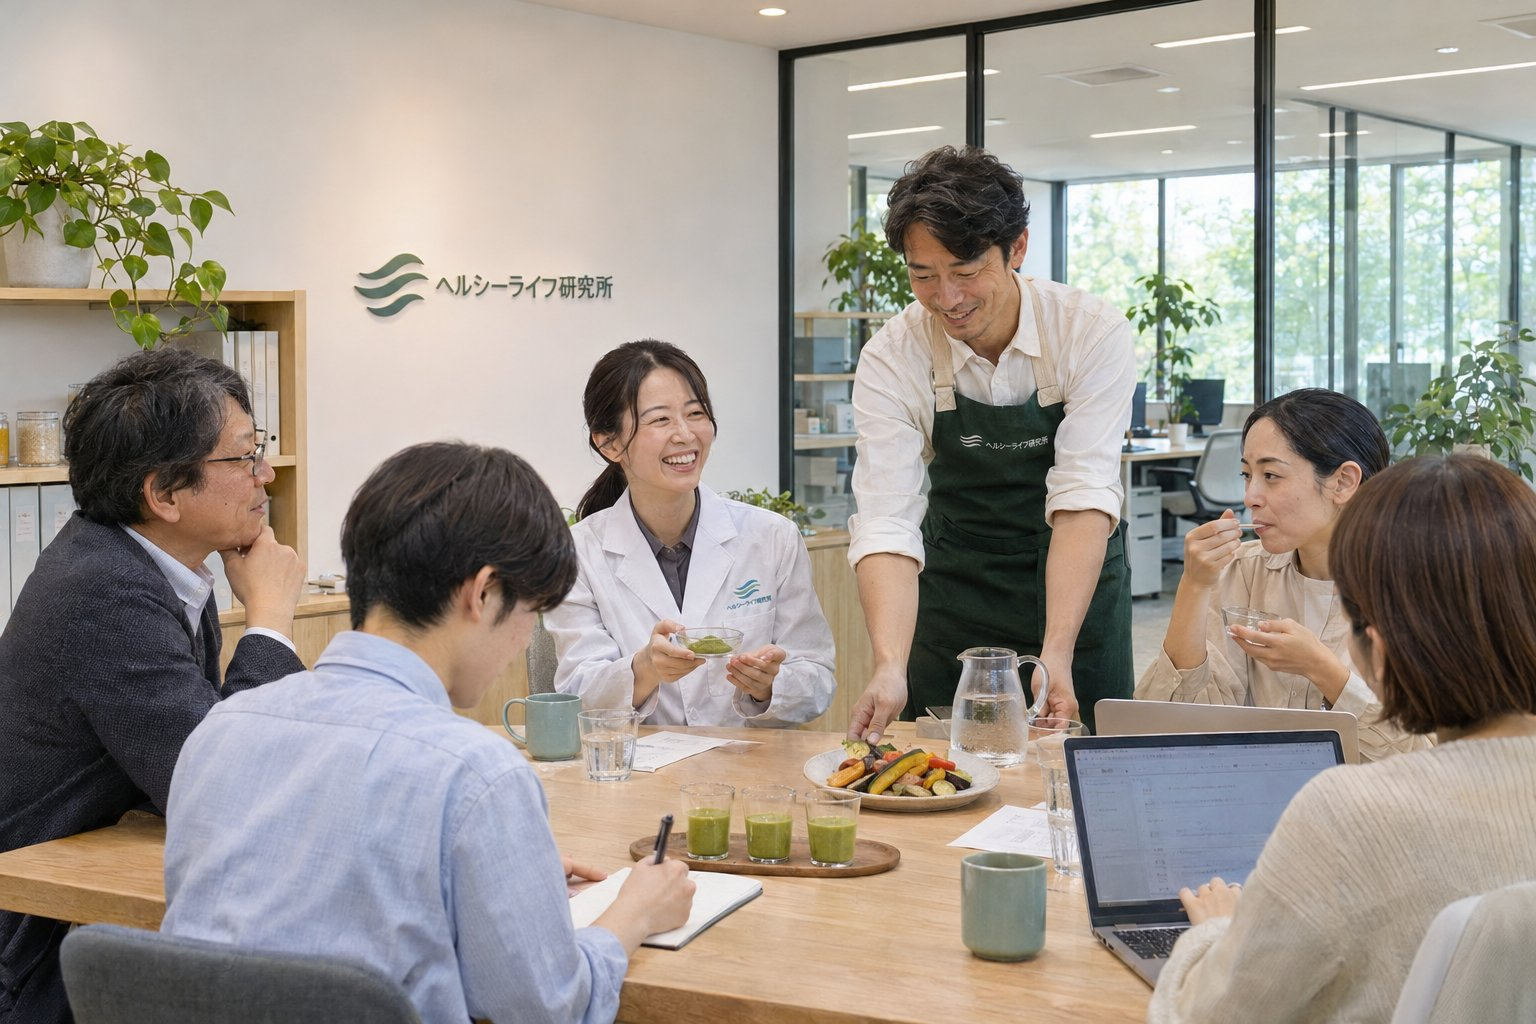
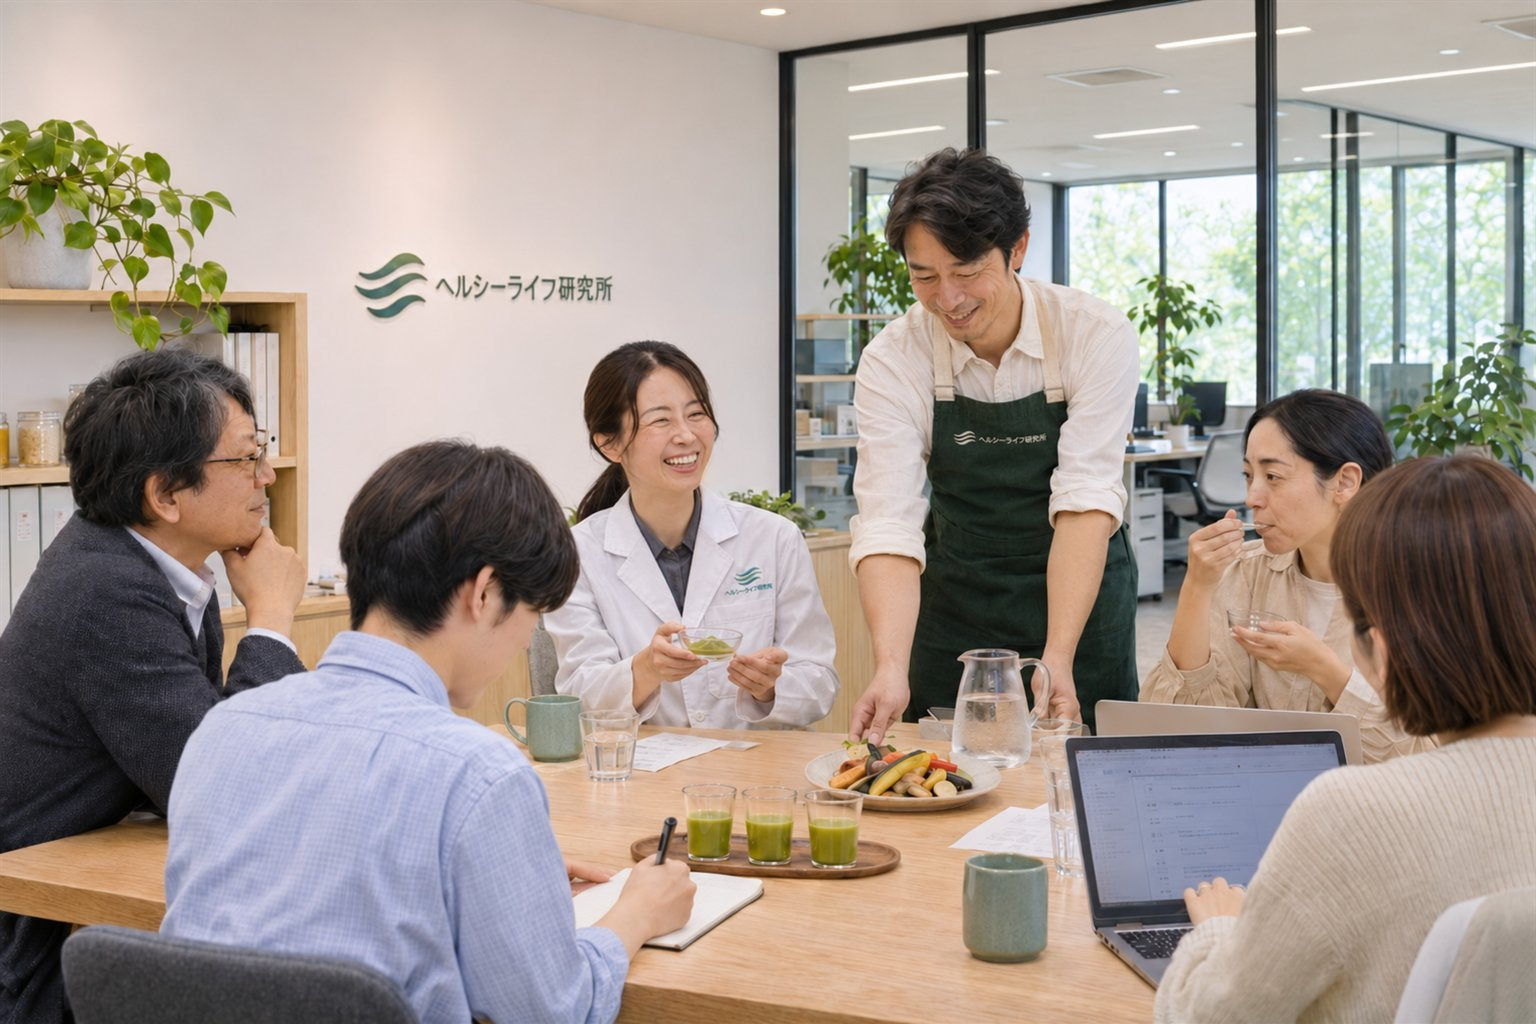
Add phone number and switch photos to v8-mark
- TEL 03-5050-5316 replaces the placeholder in header contact, footer,
  company overview and privacy text (all pages rebuilt)
- Clothing logos re-stitched to look sewn into the fabric (v8-mark)

diff --git a/contact/index.html b/contact/index.html
@@ -70,7 +70,7 @@
   <div class="wrap form-wrap">
     <aside class="form-aside rv">
       <p style="color:var(--ink-2)">当社サービスへご興味をお持ちいただき、誠にありがとうございます。商品・サービスに関するご質問、お取引のご相談、商品開発・輸出入のご相談、ECサイト構築・運営支援のご相談、出版企画のご提案、求人へのご応募など、下記フォームよりお気軽にご連絡ください。内容を確認のうえ、担当者より折り返しご連絡いたします。</p>
-      <div class="tel-card"><span class="k">Tel</span><b>【電話番号】</b><span>受付時間：9:00-18:00</span></div>
+      <div class="tel-card"><span class="k">Tel</span><b>03-5050-5316</b><span>受付時間：9:00-18:00</span></div>
       <div class="spec" style="aspect-ratio:4/3"><div class="ph"><img src="../assets/img/top-office.jpg" alt="ロゴのサインがある受付と、奥で打ち合わせをするスタッフ" loading="lazy" style="object-position:30% 50%"></div><span class="crop" aria-hidden="true"></span><span class="tag">Fig. 06 / Office</span></div>
     </aside>
 
@@ -167,7 +167,7 @@
   <section><h3 class="pp-h"><span class="n">06</span>法令、規範の遵守と見直し</h3><p>当社は、保有する個人情報に関して適用される日本の法令、その他規範を遵守するとともに、本ポリシーの内容を適宜見直し、その改善に努めます。</p></section>
   <section><h3 class="pp-h"><span class="n">07</span>Cookie（クッキー）について</h3><p>当社ウェブサイトでは、サービスの利便性向上およびサイトの利用状況の把握のため、Cookieおよびアクセス解析ツールを使用することがあります。これらにより収集される情報は匿名のものであり、個人を特定するものではありません。お客様は、ブラウザの設定によりCookieの受け入れを拒否することができますが、その場合、当サイトの一部の機能がご利用いただけないことがあります。</p></section>
   <section><h3 class="pp-h"><span class="n">08</span>お問い合せ</h3><p>当社の個人情報の取り扱いに関するお問い合せは、下記までご連絡ください。</p>
-    <address><b>有限会社ヘルシーライフ研究所</b><br>〒106-0045 東京都港区麻布十番二丁目9番5号 遠上ビル301<br>TEL：【電話番号】（受付時間：9:00-18:00）</address></section>
+    <address><b>有限会社ヘルシーライフ研究所</b><br>〒106-0045 東京都港区麻布十番二丁目9番5号 遠上ビル301<br>TEL：03-5050-5316（受付時間：9:00-18:00）</address></section>
   <p class="enact">制定日：2006年6月1日</p>
 </div>
 
@@ -182,7 +182,7 @@
     <div class="foot">
       <div>
         <a class="brand" href="../index.html"><img class="logo" src="../assets/img/logo.png" alt="" width="44" height="44"><span class="nm"><small>Healthy Life Laboratory</small>有限会社ヘルシーライフ研究所</span></a>
-        <address>〒106-0045<br>東京都港区麻布十番二丁目9番5号 遠上ビル301<br><span class="mono">TEL</span>【電話番号】（受付 9:00-18:00）</address>
+        <address>〒106-0045<br>東京都港区麻布十番二丁目9番5号 遠上ビル301<br><span class="mono">TEL</span>03-5050-5316（受付 9:00-18:00）</address>
       </div>
       <nav class="foot-nav" aria-label="フッターナビ">
         <div>

diff --git a/privacy/index.html b/privacy/index.html
@@ -79,7 +79,7 @@
   <section><h3 class="pp-h"><span class="n">06</span>法令、規範の遵守と見直し</h3><p>当社は、保有する個人情報に関して適用される日本の法令、その他規範を遵守するとともに、本ポリシーの内容を適宜見直し、その改善に努めます。</p></section>
   <section><h3 class="pp-h"><span class="n">07</span>Cookie（クッキー）について</h3><p>当社ウェブサイトでは、サービスの利便性向上およびサイトの利用状況の把握のため、Cookieおよびアクセス解析ツールを使用することがあります。これらにより収集される情報は匿名のものであり、個人を特定するものではありません。お客様は、ブラウザの設定によりCookieの受け入れを拒否することができますが、その場合、当サイトの一部の機能がご利用いただけないことがあります。</p></section>
   <section><h3 class="pp-h"><span class="n">08</span>お問い合せ</h3><p>当社の個人情報の取り扱いに関するお問い合せは、下記までご連絡ください。</p>
-    <address><b>有限会社ヘルシーライフ研究所</b><br>〒106-0045 東京都港区麻布十番二丁目9番5号 遠上ビル301<br>TEL：【電話番号】（受付時間：9:00-18:00）</address></section>
+    <address><b>有限会社ヘルシーライフ研究所</b><br>〒106-0045 東京都港区麻布十番二丁目9番5号 遠上ビル301<br>TEL：03-5050-5316（受付時間：9:00-18:00）</address></section>
   <p class="enact">制定日：2006年6月1日</p>
 </div>
 
@@ -92,7 +92,7 @@
     <div class="foot">
       <div>
         <a class="brand" href="../index.html"><img class="logo" src="../assets/img/logo.png" alt="" width="44" height="44"><span class="nm"><small>Healthy Life Laboratory</small>有限会社ヘルシーライフ研究所</span></a>
-        <address>〒106-0045<br>東京都港区麻布十番二丁目9番5号 遠上ビル301<br><span class="mono">TEL</span>【電話番号】（受付 9:00-18:00）</address>
+        <address>〒106-0045<br>東京都港区麻布十番二丁目9番5号 遠上ビル301<br><span class="mono">TEL</span>03-5050-5316（受付 9:00-18:00）</address>
       </div>
       <nav class="foot-nav" aria-label="フッターナビ">
         <div>

diff --git a/contact/thanks.html b/contact/thanks.html
@@ -71,7 +71,7 @@
       <span class="seal" aria-hidden="true"><svg viewBox="0 0 48 48" fill="none" stroke="currentColor" stroke-width="2" stroke-linecap="round" stroke-linejoin="round"><path d="M18 6h12M20 6v12L9 37a3 3 0 0 0 2.6 4.5h24.8A3 3 0 0 0 39 37L28 18V6"/><path d="M17 31l5 5 9-9"/></svg></span>
       <span class="lbl">Thank You</span>
       <h1>お問い合わせありがとうございました。</h1>
-      <p>送信が完了しました。内容を確認のうえ、担当者より折り返しご連絡いたします。<br>数日経っても連絡がない場合は、お手数ですがお電話（【電話番号】受付 9:00-18:00）にてお問い合わせください。</p>
+      <p>送信が完了しました。内容を確認のうえ、担当者より折り返しご連絡いたします。<br>数日経っても連絡がない場合は、お手数ですがお電話（03-5050-5316受付 9:00-18:00）にてお問い合わせください。</p>
       <a class="btn" href="../index.html">トップページへ戻る<span class="arr" aria-hidden="true">→</span></a>
     </div>
   </div>
@@ -83,7 +83,7 @@
     <div class="foot">
       <div>
         <a class="brand" href="../index.html"><img class="logo" src="../assets/img/logo.png" alt="" width="44" height="44"><span class="nm"><small>Healthy Life Laboratory</small>有限会社ヘルシーライフ研究所</span></a>
-        <address>〒106-0045<br>東京都港区麻布十番二丁目9番5号 遠上ビル301<br><span class="mono">TEL</span>【電話番号】（受付 9:00-18:00）</address>
+        <address>〒106-0045<br>東京都港区麻布十番二丁目9番5号 遠上ビル301<br><span class="mono">TEL</span>03-5050-5316（受付 9:00-18:00）</address>
       </div>
       <nav class="foot-nav" aria-label="フッターナビ">
         <div>

diff --git a/company/overview.html b/company/overview.html
@@ -75,7 +75,7 @@
         <tr><th scope="row"><span class="c">Name</span>会社名</th><td>有限会社ヘルシーライフ研究所</td></tr>
         <tr><th scope="row"><span class="c">Address</span>本社所在地</th><td>〒106-0045<br>東京都港区麻布十番二丁目9番5号 遠上ビル301</td></tr>
         <tr><th scope="row"><span class="c">Representative</span>代表者名</th><td>代表 川島 透真</td></tr>
-        <tr><th scope="row"><span class="c">Tel</span>TEL</th><td>【電話番号】</td></tr>
+        <tr><th scope="row"><span class="c">Tel</span>TEL</th><td>03-5050-5316</td></tr>
         <tr><th scope="row"><span class="c">Hours</span>営業時間</th><td>9:00-18:00</td></tr>
         <tr><th scope="row"><span class="c">Established</span>設立年月日</th><td>2006年（平成18年）4月28日</td></tr>
         <tr><th scope="row"><span class="c">Capital</span>資本金</th><td>300万円</td></tr>
@@ -130,7 +130,7 @@
     <div class="foot">
       <div>
         <a class="brand" href="../index.html"><img class="logo" src="../assets/img/logo.png" alt="" width="44" height="44"><span class="nm"><small>Healthy Life Laboratory</small>有限会社ヘルシーライフ研究所</span></a>
-        <address>〒106-0045<br>東京都港区麻布十番二丁目9番5号 遠上ビル301<br><span class="mono">TEL</span>【電話番号】（受付 9:00-18:00）</address>
+        <address>〒106-0045<br>東京都港区麻布十番二丁目9番5号 遠上ビル301<br><span class="mono">TEL</span>03-5050-5316（受付 9:00-18:00）</address>
       </div>
       <nav class="foot-nav" aria-label="フッターナビ">
         <div>

diff --git a/_src/partials/privacy-body.html b/_src/partials/privacy-body.html
@@ -10,6 +10,6 @@
   <section><h3 class="pp-h"><span class="n">06</span>法令、規範の遵守と見直し</h3><p>当社は、保有する個人情報に関して適用される日本の法令、その他規範を遵守するとともに、本ポリシーの内容を適宜見直し、その改善に努めます。</p></section>
   <section><h3 class="pp-h"><span class="n">07</span>Cookie（クッキー）について</h3><p>当社ウェブサイトでは、サービスの利便性向上およびサイトの利用状況の把握のため、Cookieおよびアクセス解析ツールを使用することがあります。これらにより収集される情報は匿名のものであり、個人を特定するものではありません。お客様は、ブラウザの設定によりCookieの受け入れを拒否することができますが、その場合、当サイトの一部の機能がご利用いただけないことがあります。</p></section>
   <section><h3 class="pp-h"><span class="n">08</span>お問い合せ</h3><p>当社の個人情報の取り扱いに関するお問い合せは、下記までご連絡ください。</p>
-    <address><b>有限会社ヘルシーライフ研究所</b><br>〒106-0045 東京都港区麻布十番二丁目9番5号 遠上ビル301<br>TEL：【電話番号】（受付時間：9:00-18:00）</address></section>
+    <address><b>有限会社ヘルシーライフ研究所</b><br>〒106-0045 東京都港区麻布十番二丁目9番5号 遠上ビル301<br>TEL：03-5050-5316（受付時間：9:00-18:00）</address></section>
   <p class="enact">制定日：2006年6月1日</p>
 </div>

diff --git a/recruit/index.html b/recruit/index.html
@@ -176,7 +176,7 @@
     <p>ご応募・ご質問は、お問い合わせフォームより「求人応募」を選択のうえご連絡ください。皆様からのご応募を心よりお待ちしています。</p>
     <div class="contact-row">
       <a class="btn inv" href="../contact/index.html?type=recruit">応募フォームへ進む<span class="arr" aria-hidden="true">→</span></a>
-      <span class="tel"><b>TEL</b>【電話番号】（受付 9:00-18:00）</span>
+      <span class="tel"><b>TEL</b>03-5050-5316（受付 9:00-18:00）</span>
     </div>
   </div>
 </section>
@@ -187,7 +187,7 @@
     <div class="foot">
       <div>
         <a class="brand" href="../index.html"><img class="logo" src="../assets/img/logo.png" alt="" width="44" height="44"><span class="nm"><small>Healthy Life Laboratory</small>有限会社ヘルシーライフ研究所</span></a>
-        <address>〒106-0045<br>東京都港区麻布十番二丁目9番5号 遠上ビル301<br><span class="mono">TEL</span>【電話番号】（受付 9:00-18:00）</address>
+        <address>〒106-0045<br>東京都港区麻布十番二丁目9番5号 遠上ビル301<br><span class="mono">TEL</span>03-5050-5316（受付 9:00-18:00）</address>
       </div>
       <nav class="foot-nav" aria-label="フッターナビ">
         <div>

diff --git a/index.html b/index.html
@@ -250,7 +250,7 @@
     <p>商品・サービスに関するご質問、お取引のご相談、ECサイト構築のご相談、取材のお申し込みなど、まずはお気軽にお問い合わせください。</p>
     <div class="contact-row">
       <a class="btn inv" href="contact/index.html">フォームでお問い合わせ<span class="arr" aria-hidden="true">→</span></a>
-      <span class="tel"><b>TEL</b>【電話番号】（受付 9:00-18:00）</span>
+      <span class="tel"><b>TEL</b>03-5050-5316（受付 9:00-18:00）</span>
     </div>
   </div>
 </section>
@@ -261,7 +261,7 @@
     <div class="foot">
       <div>
         <a class="brand" href="index.html"><img class="logo" src="assets/img/logo.png" alt="" width="44" height="44"><span class="nm"><small>Healthy Life Laboratory</small>有限会社ヘルシーライフ研究所</span></a>
-        <address>〒106-0045<br>東京都港区麻布十番二丁目9番5号 遠上ビル301<br><span class="mono">TEL</span>【電話番号】（受付 9:00-18:00）</address>
+        <address>〒106-0045<br>東京都港区麻布十番二丁目9番5号 遠上ビル301<br><span class="mono">TEL</span>03-5050-5316（受付 9:00-18:00）</address>
       </div>
       <nav class="foot-nav" aria-label="フッターナビ">
         <div>

diff --git a/_src/pages/contact/index.html b/_src/pages/contact/index.html
@@ -18,7 +18,7 @@ section: contact
   <div class="wrap form-wrap">
     <aside class="form-aside rv">
       <p style="color:var(--ink-2)">当社サービスへご興味をお持ちいただき、誠にありがとうございます。商品・サービスに関するご質問、お取引のご相談、商品開発・輸出入のご相談、ECサイト構築・運営支援のご相談、出版企画のご提案、求人へのご応募など、下記フォームよりお気軽にご連絡ください。内容を確認のうえ、担当者より折り返しご連絡いたします。</p>
-      <div class="tel-card"><span class="k">Tel</span><b>【電話番号】</b><span>受付時間：9:00-18:00</span></div>
+      <div class="tel-card"><span class="k">Tel</span><b>03-5050-5316</b><span>受付時間：9:00-18:00</span></div>
       <div class="spec" style="aspect-ratio:4/3"><div class="ph"><img src="{{root}}assets/img/top-office.jpg" alt="ロゴのサインがある受付と、奥で打ち合わせをするスタッフ" loading="lazy" style="object-position:30% 50%"></div><span class="crop" aria-hidden="true"></span><span class="tag">Fig. 06 / Office</span></div>
     </aside>
 

diff --git a/_src/pages/contact/thanks.html b/_src/pages/contact/thanks.html
@@ -19,7 +19,7 @@ section: contact
       <span class="seal" aria-hidden="true"><svg viewBox="0 0 48 48" fill="none" stroke="currentColor" stroke-width="2" stroke-linecap="round" stroke-linejoin="round"><path d="M18 6h12M20 6v12L9 37a3 3 0 0 0 2.6 4.5h24.8A3 3 0 0 0 39 37L28 18V6"/><path d="M17 31l5 5 9-9"/></svg></span>
       <span class="lbl">Thank You</span>
       <h1>お問い合わせありがとうございました。</h1>
-      <p>送信が完了しました。内容を確認のうえ、担当者より折り返しご連絡いたします。<br>数日経っても連絡がない場合は、お手数ですがお電話（【電話番号】受付 9:00-18:00）にてお問い合わせください。</p>
+      <p>送信が完了しました。内容を確認のうえ、担当者より折り返しご連絡いたします。<br>数日経っても連絡がない場合は、お手数ですがお電話（03-5050-5316受付 9:00-18:00）にてお問い合わせください。</p>
       <a class="btn" href="{{root}}index.html">トップページへ戻る<span class="arr" aria-hidden="true">→</span></a>
     </div>
   </div>

diff --git a/_src/pages/company/overview.html b/_src/pages/company/overview.html
@@ -23,7 +23,7 @@ section: company
         <tr><th scope="row"><span class="c">Name</span>会社名</th><td>有限会社ヘルシーライフ研究所</td></tr>
         <tr><th scope="row"><span class="c">Address</span>本社所在地</th><td>〒106-0045<br>東京都港区麻布十番二丁目9番5号 遠上ビル301</td></tr>
         <tr><th scope="row"><span class="c">Representative</span>代表者名</th><td>代表 川島 透真</td></tr>
-        <tr><th scope="row"><span class="c">Tel</span>TEL</th><td>【電話番号】</td></tr>
+        <tr><th scope="row"><span class="c">Tel</span>TEL</th><td>03-5050-5316</td></tr>
         <tr><th scope="row"><span class="c">Hours</span>営業時間</th><td>9:00-18:00</td></tr>
         <tr><th scope="row"><span class="c">Established</span>設立年月日</th><td>2006年（平成18年）4月28日</td></tr>
         <tr><th scope="row"><span class="c">Capital</span>資本金</th><td>300万円</td></tr>

diff --git a/_src/partials/layout.html b/_src/partials/layout.html
@@ -63,7 +63,7 @@
     <div class="foot">
       <div>
         <a class="brand" href="{{root}}index.html"><img class="logo" src="{{root}}assets/img/logo.png" alt="" width="44" height="44"><span class="nm"><small>Healthy Life Laboratory</small>有限会社ヘルシーライフ研究所</span></a>
-        <address>〒106-0045<br>東京都港区麻布十番二丁目9番5号 遠上ビル301<br><span class="mono">TEL</span>【電話番号】（受付 9:00-18:00）</address>
+        <address>〒106-0045<br>東京都港区麻布十番二丁目9番5号 遠上ビル301<br><span class="mono">TEL</span>03-5050-5316（受付 9:00-18:00）</address>
       </div>
       <nav class="foot-nav" aria-label="フッターナビ">
         <div>

diff --git a/company/index.html b/company/index.html
@@ -151,7 +151,7 @@
     <div class="foot">
       <div>
         <a class="brand" href="../index.html"><img class="logo" src="../assets/img/logo.png" alt="" width="44" height="44"><span class="nm"><small>Healthy Life Laboratory</small>有限会社ヘルシーライフ研究所</span></a>
-        <address>〒106-0045<br>東京都港区麻布十番二丁目9番5号 遠上ビル301<br><span class="mono">TEL</span>【電話番号】（受付 9:00-18:00）</address>
+        <address>〒106-0045<br>東京都港区麻布十番二丁目9番5号 遠上ビル301<br><span class="mono">TEL</span>03-5050-5316（受付 9:00-18:00）</address>
       </div>
       <nav class="foot-nav" aria-label="フッターナビ">
         <div>
